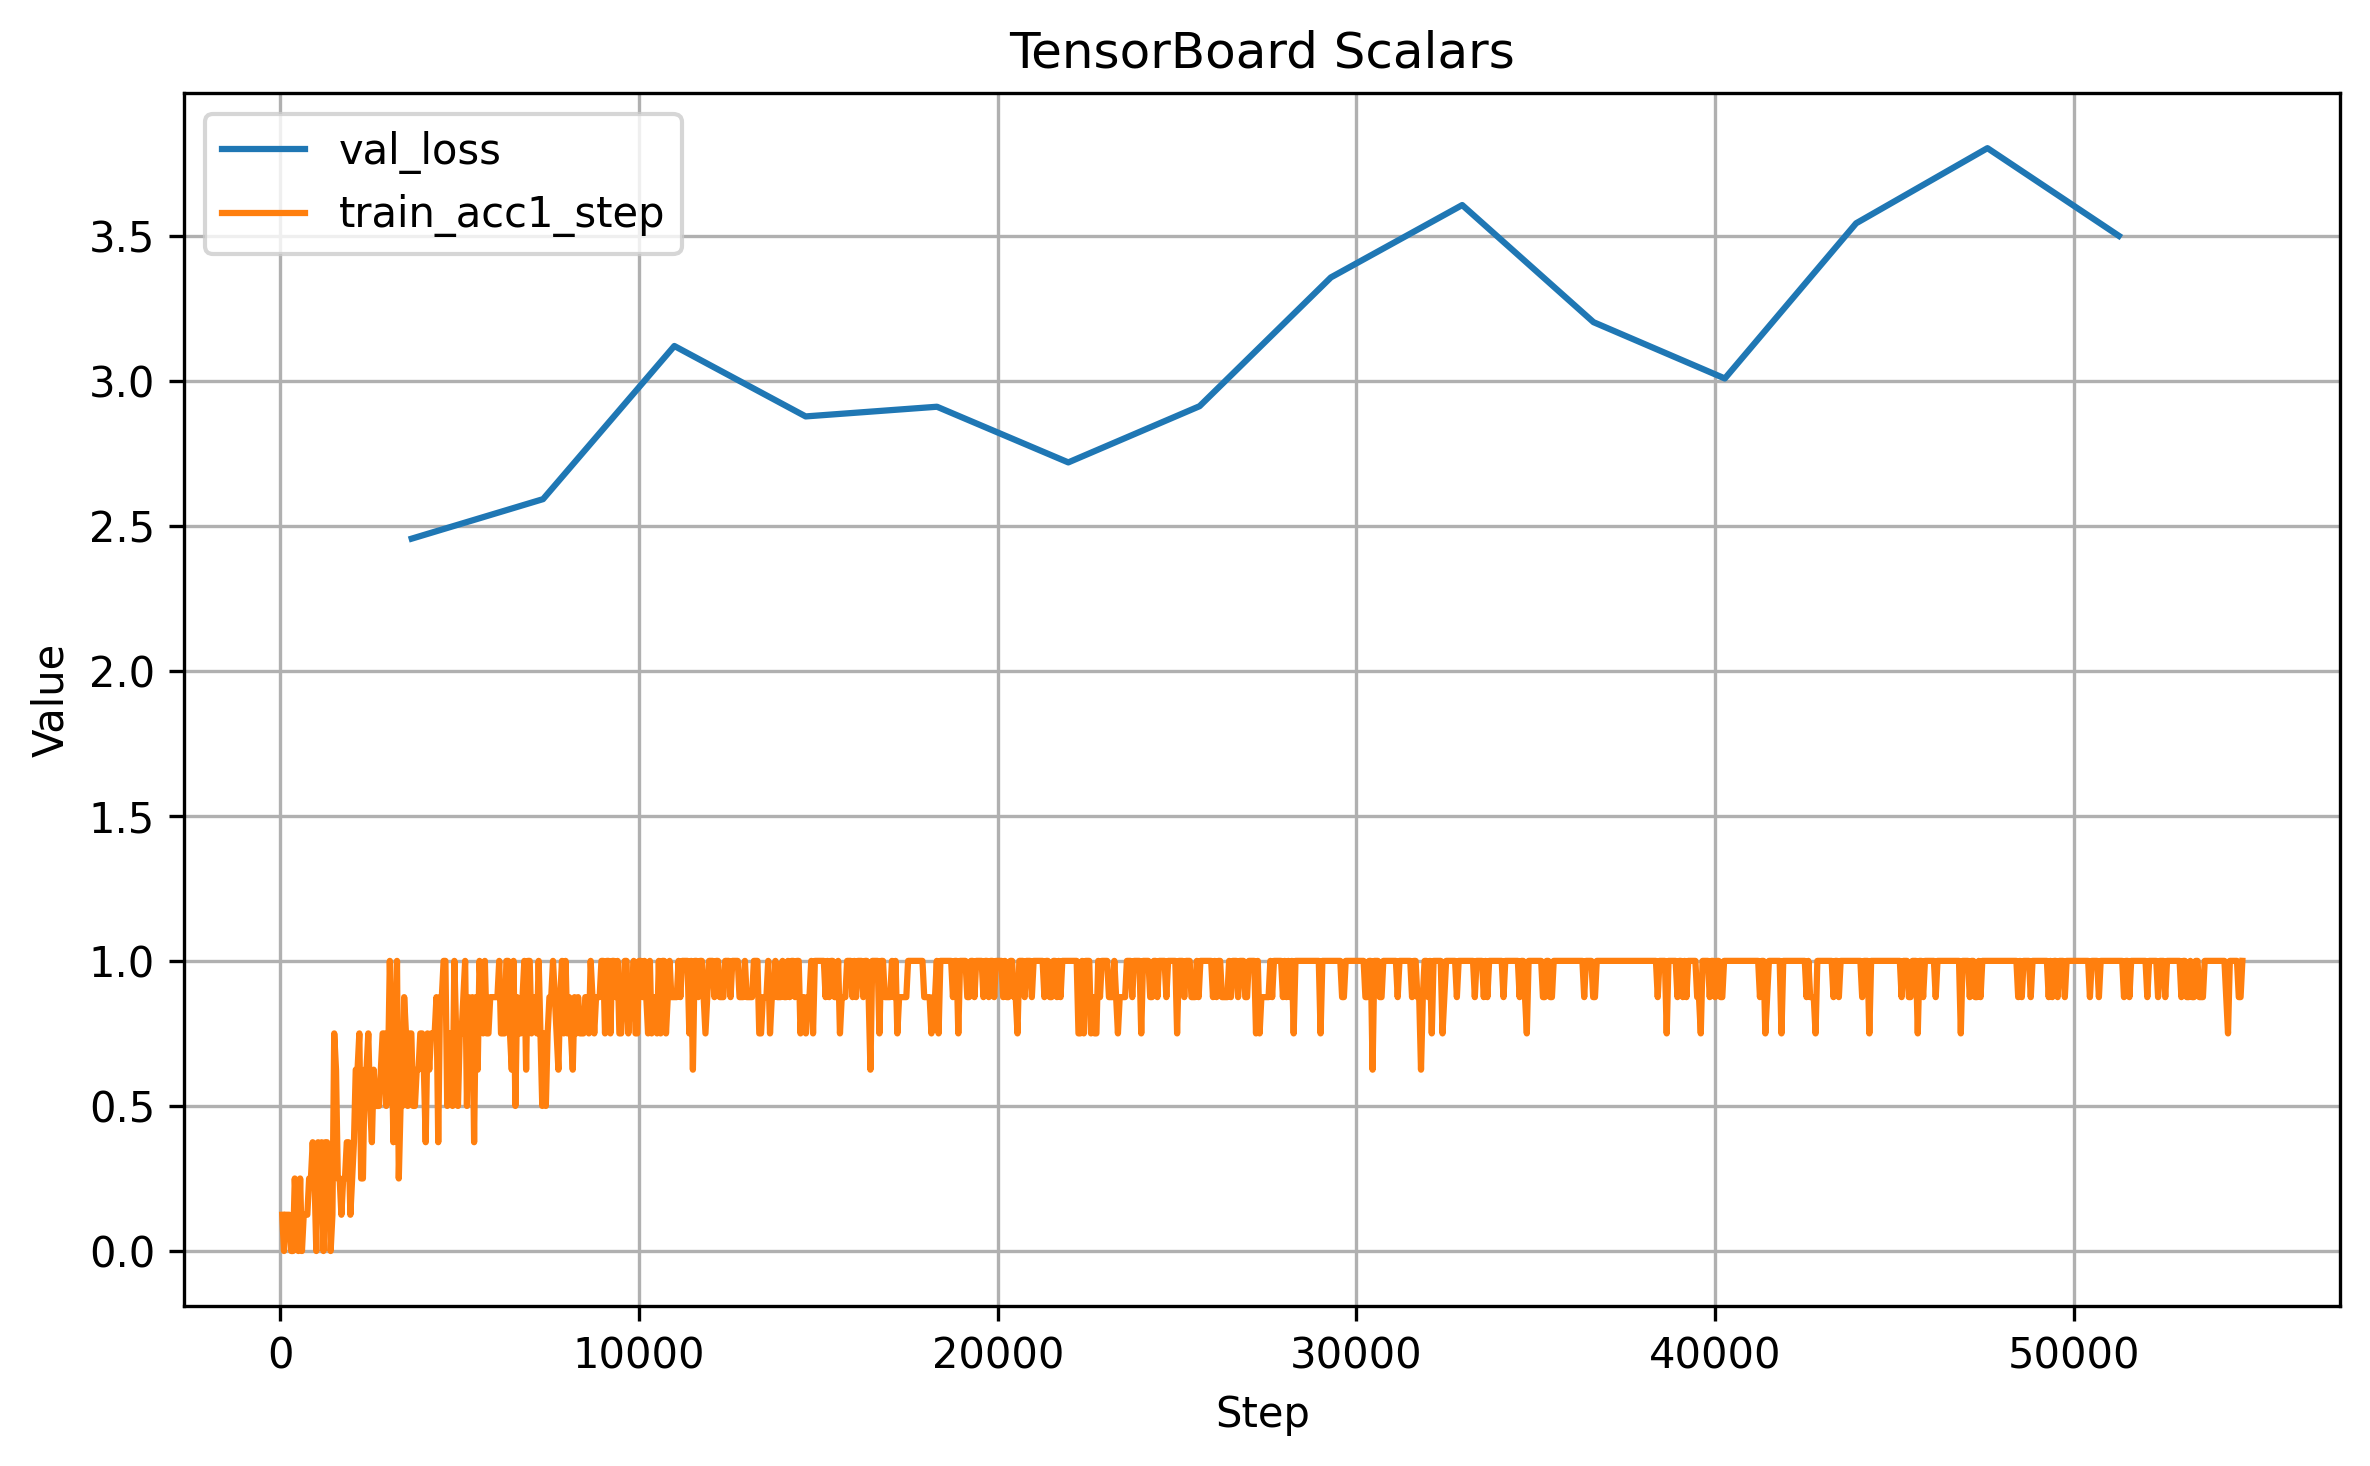
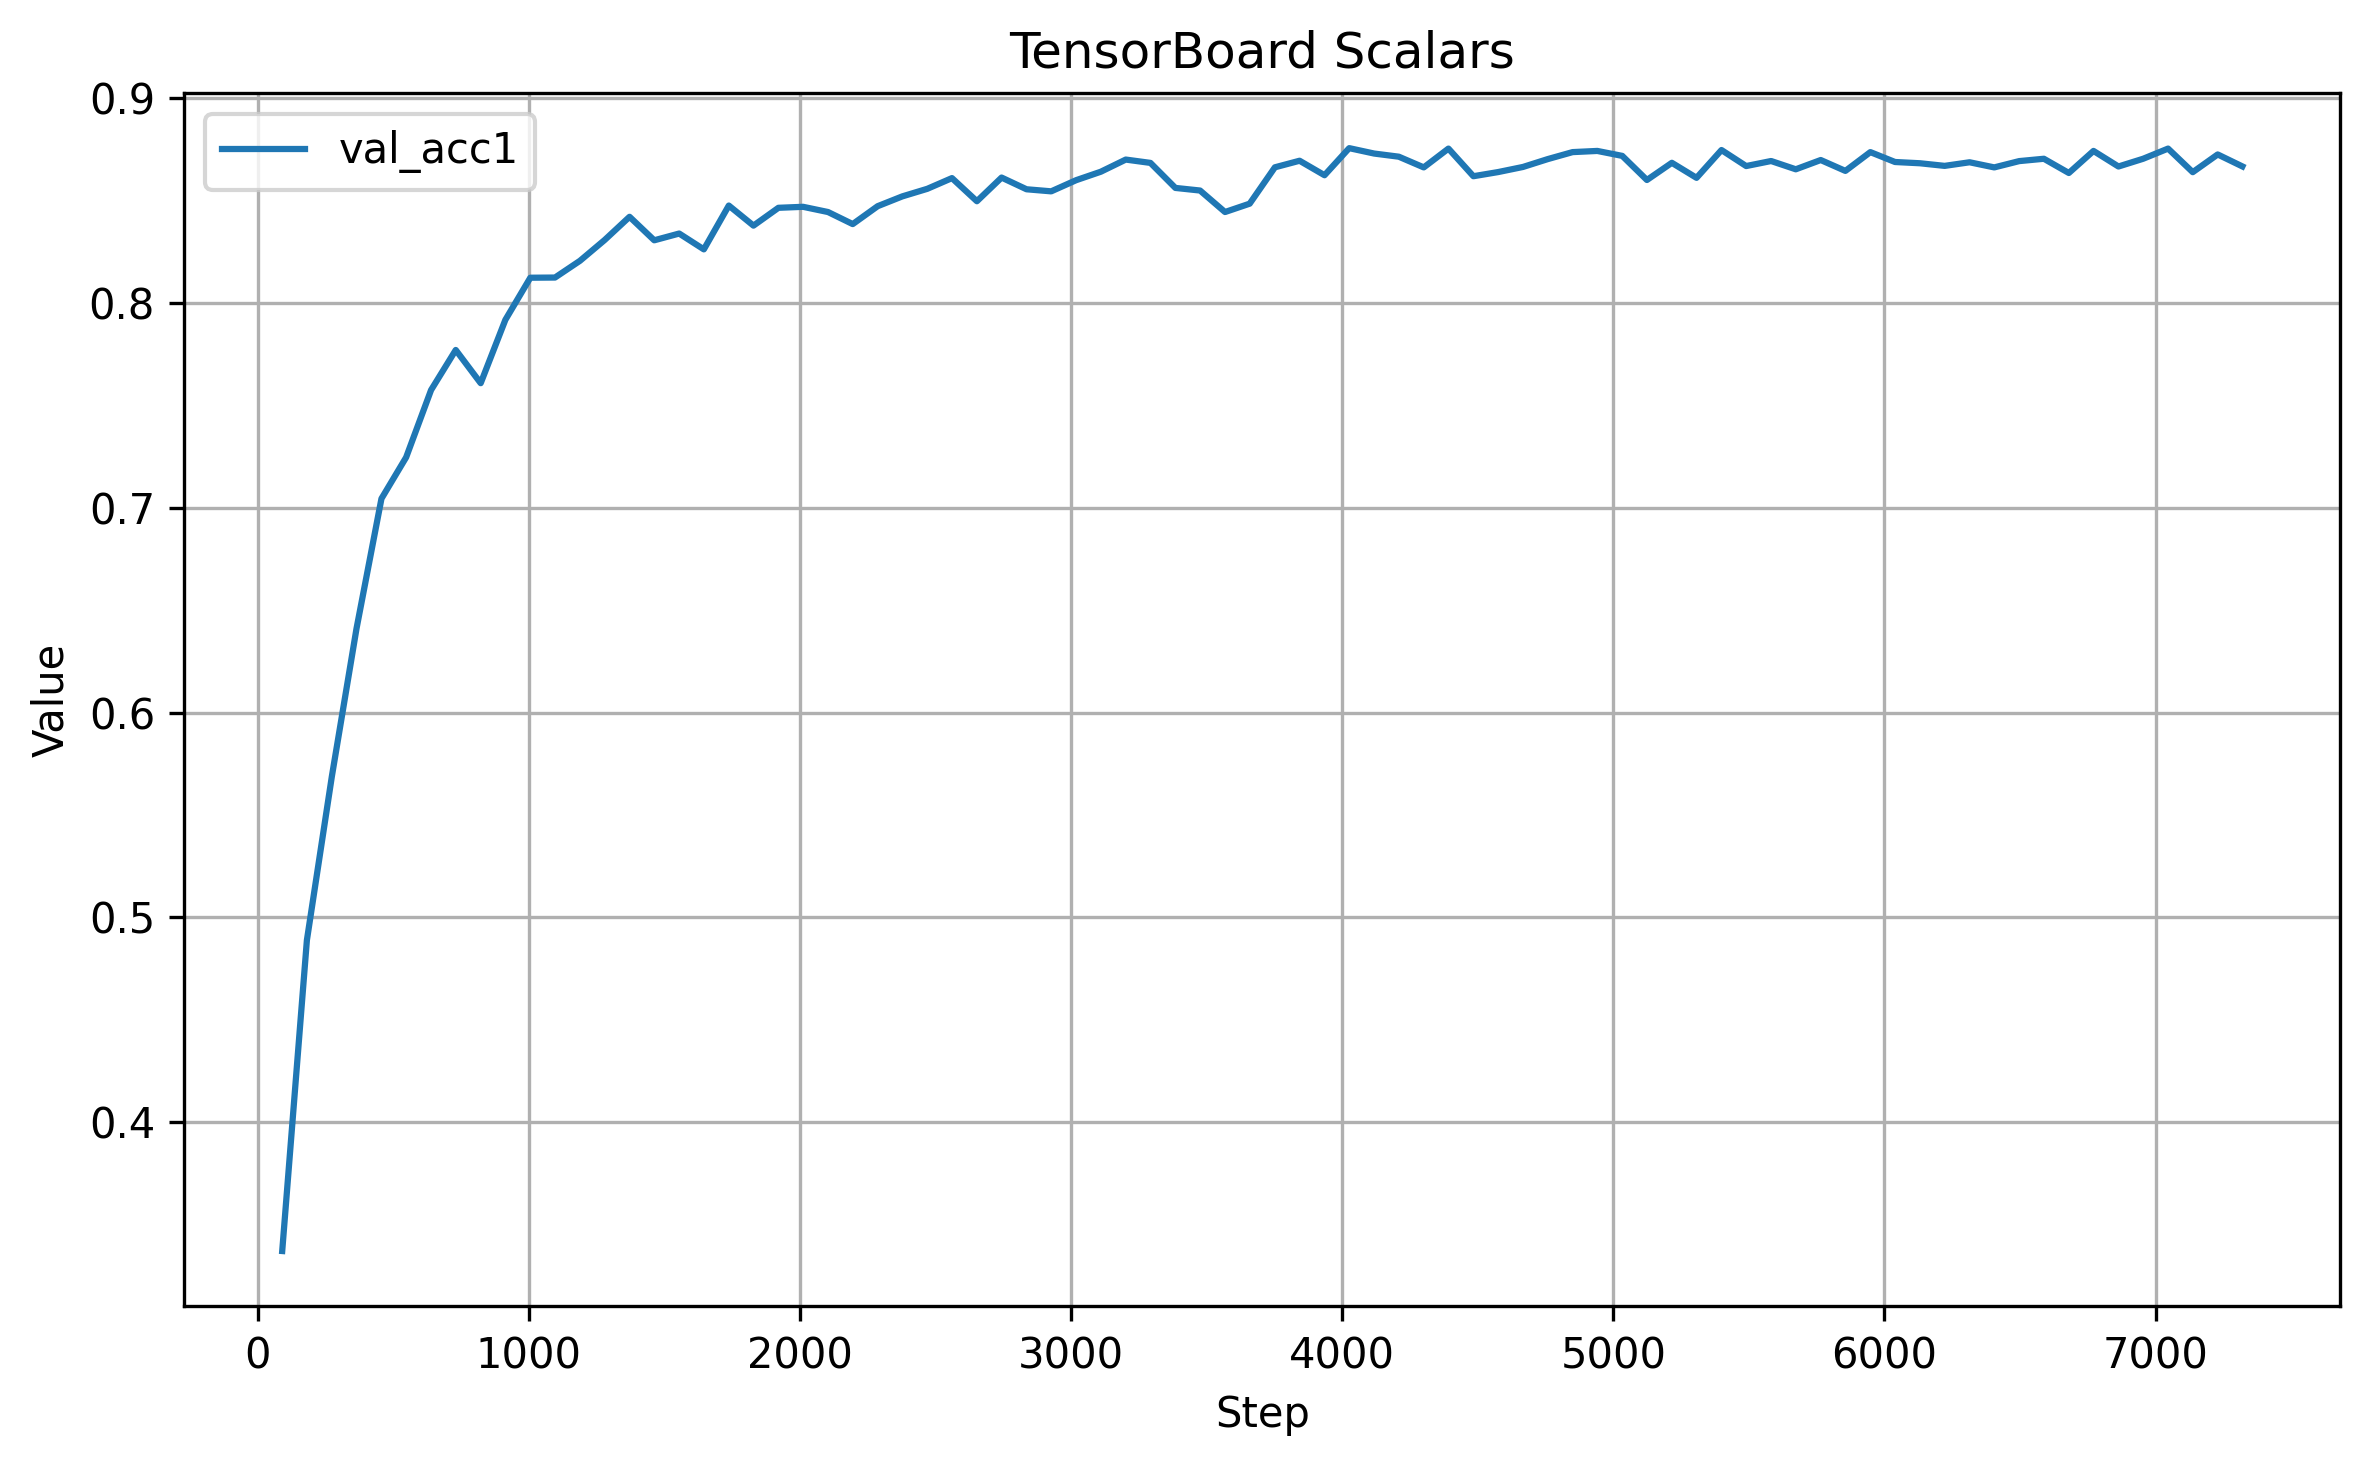
callbacks

diff --git a/plot.py b/plot.py
@@ -2,6 +2,7 @@ from matplotlib import pyplot as plt
 from tensorboard.backend.event_processing import event_accumulator
 import os
 
+
 def plot_multiple_scalars(log_dir, tags, smoothing=0.0):
     plt.figure(figsize=(8, 5))
 
@@ -36,6 +37,46 @@ def plot_multiple_scalars(log_dir, tags, smoothing=0.0):
     plt.close()
 
 
+def compare_scalar_between_runs(log_dir1, log_dir2, tag="val_acc1",
+                                label1="Standard",
+                                label2="B-Cos",
+                                smoothing=0.0,
+                                save_path="comparison_plot.png"):
+
+    plt.figure(figsize=(8, 5))
+
+    for log_dir, label in [(log_dir1, label1), (log_dir2, label2)]:
+
+        ea = event_accumulator.EventAccumulator(
+            log_dir,
+            size_guidance={event_accumulator.SCALARS: 0}
+        )
+        ea.Reload()
+
+        events = ea.Scalars(tag)
+
+        steps = [e.step for e in events]
+        values = [e.value for e in events]
+
+        if smoothing > 0:
+            smoothed = []
+            last = values[0]
+            for v in values:
+                last = smoothing * last + (1 - smoothing) * v
+                smoothed.append(last)
+            values = smoothed
+
+        plt.plot(steps, values, label=label)
+
+    plt.xlabel("Epoch / Step")
+    plt.ylabel(tag)
+    plt.title(f"{tag} Comparison")
+    plt.legend()
+    plt.grid(True)
+    plt.tight_layout()
+    plt.savefig(save_path, bbox_inches="tight", dpi=300)
+    plt.close()
+
 
 def print_all_tensorboard_tags(log_dir):
     ea = event_accumulator.EventAccumulator(log_dir)
@@ -50,23 +91,7 @@ def print_all_tensorboard_tags(log_dir):
             print(f"  - {tag}")
         print()
 
-"""
-SCALARS:
-  - hp_metric
-  - lr-AdamW
-  - train_loss
-  - train_acc1_step
-  - train_acc5_step
-  - epoch
-  - val_loss
-  - val_acc1
-  - val_acc5
-  - train_acc1_epoch
-  - train_acc5_epoch
-"""
-
-
 log_dir = "tb_logs/experiments/UCF101/standard/i3d/i3d/standard"
+log_dir_2 = "tb_logs/experiments/UCF101/standard/i3d/i3d/version_10"
 tags = ["val_acc1"]
-
-plot_multiple_scalars(log_dir, tags)
+compare_scalar_between_runs(log_dir, log_dir_2)
